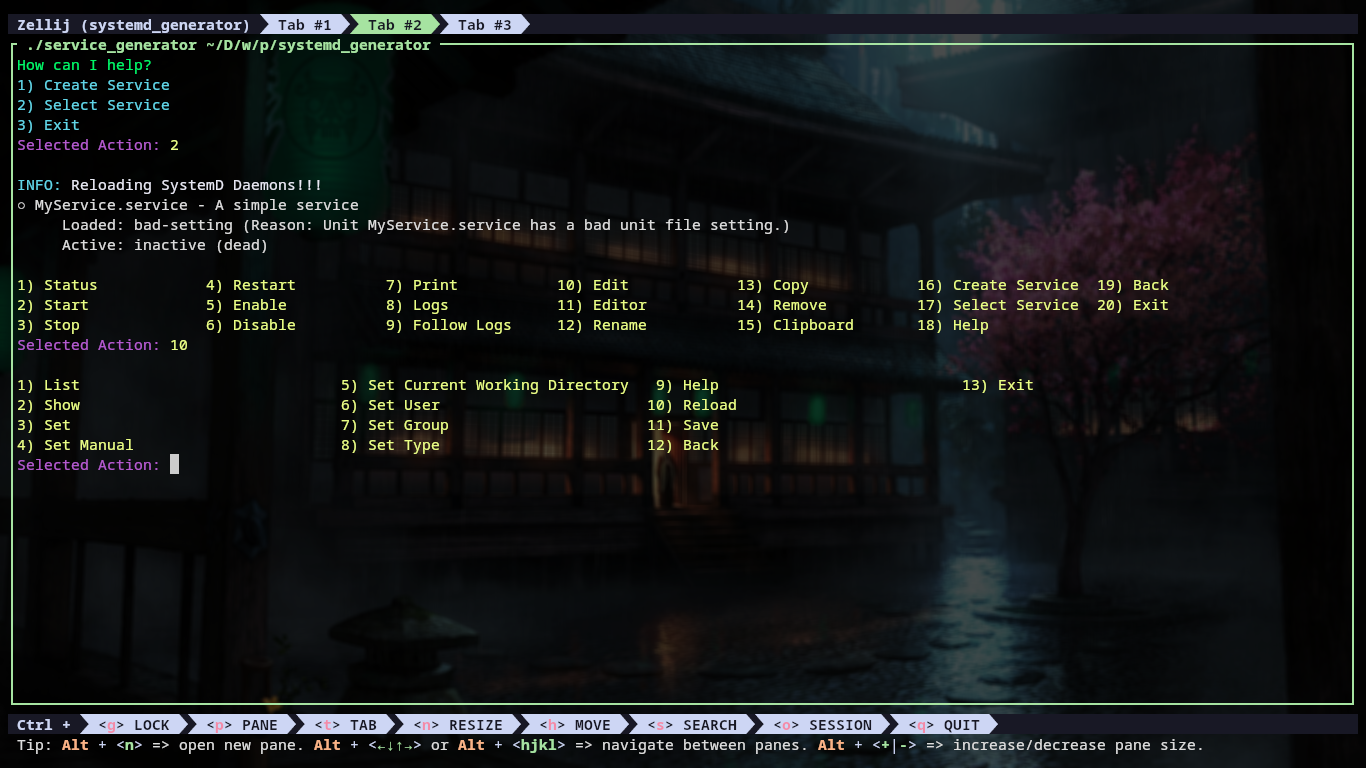
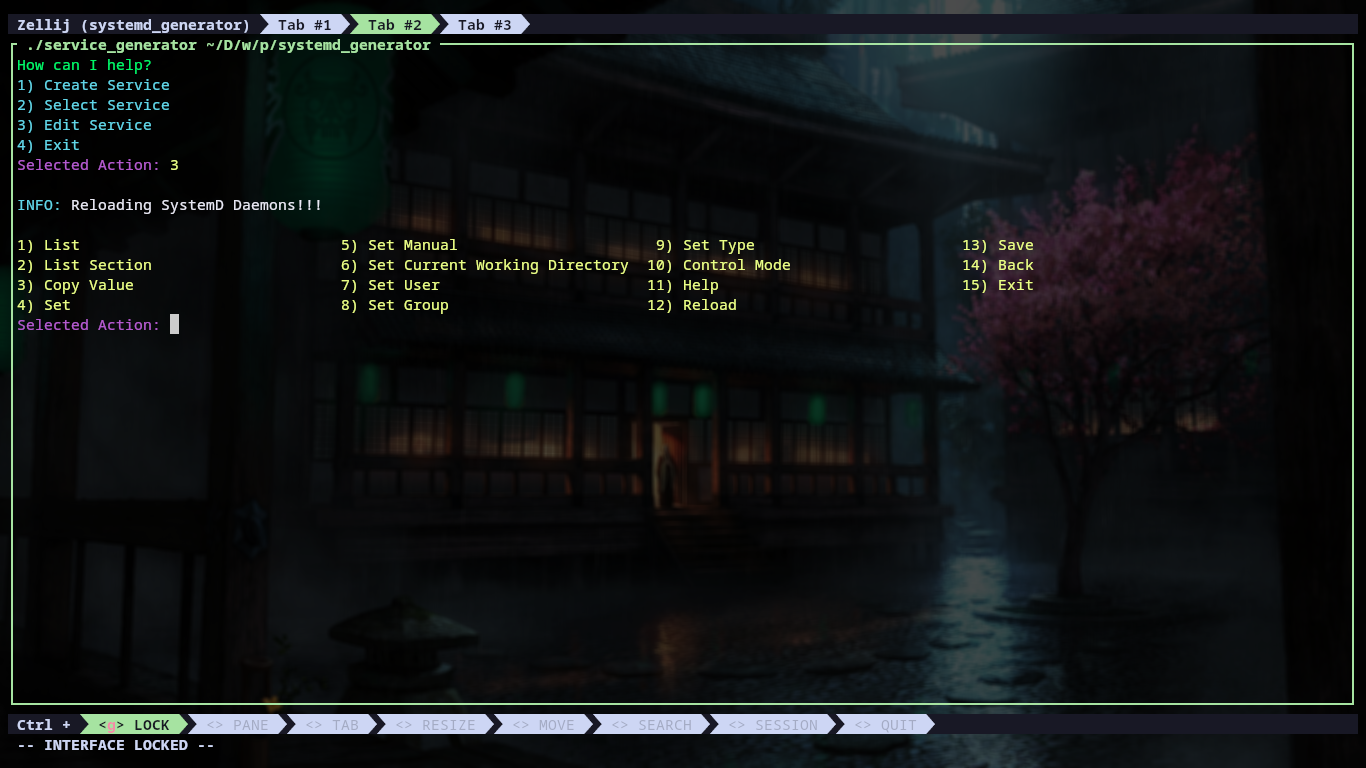
Update screenshots and captions in the readme

diff --git a/README.md b/README.md
@@ -64,15 +64,19 @@ chmod +x service_generator
 
 ![](./screens/edit_service.png)
 
-- Set manual directive `Service,ExecStart` to `my_binary`
-- Set the service working directory to the current location using option 5
-- Finally set the user to `davenchy` using option 6
+- Set manual directive `Service:ExecStart` to `my_binary`
+- Set the service working directory to the current location using option 6
+- Finally set the user to `davenchy` using option 7
 
 ![](./screens/set_service_directives.png)
 
 - Save Service
 
 ![](./screens/save_service.png)
+
+- Let's check the final results using the List option
+
+![](./screens/list_service.png)
 
 ## Help Messages
 
